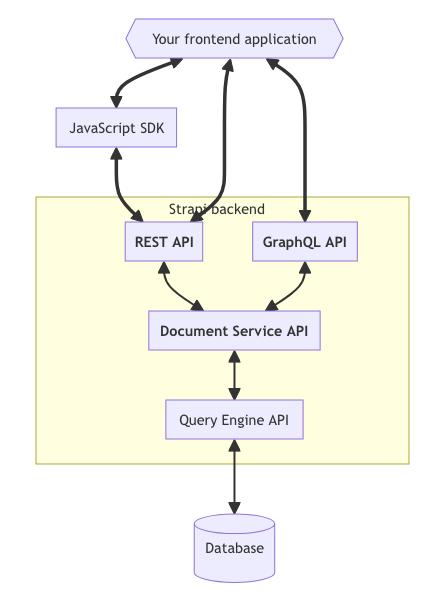
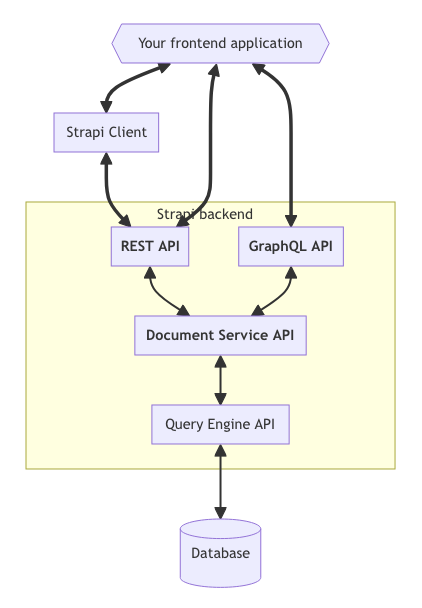
Rename SDK to Client in files and diagrams

diff --git a/docusaurus/sidebars.js b/docusaurus/sidebars.js
@@ -169,7 +169,7 @@ const sidebars = {
         },
         {
           type: 'doc',
-          id: 'dev-docs/api/sdk-js',
+          id: 'dev-docs/api/client',
         },
         {
           type: 'doc',

diff --git a/docusaurus/docs/dev-docs/api/client.md b/docusaurus/docs/dev-docs/api/client.md
@@ -1,16 +1,17 @@
 ---
-title: JavaScript SDK
+title: Strapi Client
+description: The Strapi Client library simplifies interactions with your Strapi back end, providing a way to fetch, create, update, and delete content.  
 displayed_sidebar: devDocsSidebar
 tags:
 - API
 - Content API
 - documentId
-- JavaScript SDK
+- Strapi Client
 ---
 
-# JavaScript SDK
+# Strapi Client
 
-The Strapi JavaScript SDK simplifies interactions with your Strapi back end, providing a way to fetch, create, update, and delete content. This guide walks you through setting up the JavaScript SDK, configuring authentication, and using its key features effectively.
+The Strapi Client library simplifies interactions with your Strapi back end, providing a way to fetch, create, update, and delete content. This guide walks you through setting up the Strapi Client, configuring authentication, and using its key features effectively.
 
 ## Getting Started
 :::prerequisites
@@ -20,27 +21,27 @@ The Strapi JavaScript SDK simplifies interactions with your Strapi back end, pro
 
 ### Installation
 
-To use the JavaScript SDK in your project, install it as a dependency using your preferred package manager:
+To use the Strapi Client in your project, install it as a dependency using your preferred package manager:
 
   <Tabs groupId="yarn-npm">
   <TabItem value="yarn" label="Yarn">
 
   ```bash
-  yarn add @strapi/sdk-js
+  yarn add @strapi/client
   ```
 
   </TabItem>
   <TabItem value="npm" label="NPM">
 
   ```bash
-  npm install @strapi/sdk-js
+  npm install @strapi/client
   ```
 
   </TabItem>
   <TabItem value="pnpm" label="pnpm">
 
   ```bash
-    pnpm add @strapi/sdk-js
+    pnpm add @strapi/client
   ```
 
   </TabItem>
@@ -48,32 +49,32 @@ To use the JavaScript SDK in your project, install it as a dependency using your
 
 ### Basic configuration
 
-To start interacting with your Strapi back end, initialize the JavaScript SDK and set the base API URL:
+To start interacting with your Strapi back end, initialize the Strapi Client and set the base API URL:
 
 ```js
-import { strapi } from '@strapi/sdk-js';
+import { strapi } from '@strapi/client';
 
-const sdk = strapi({ baseURL: 'http://localhost:1337/api' });
+const client = strapi({ baseURL: 'http://localhost:1337/api' });
 ```
 
-If you're using the JavaScript SDK in a browser environment, you can include it using a `<script>` tag:
+If you're using the Strapi Client in a browser environment, you can include it using a `<script>` tag:
 
 ```js title="./src/api/[apiName]/routes/[routerName].ts (e.g './src/api/restaurant/routes/restaurant.ts')"
-<script src="https://cdn.jsdelivr.net/npm/@strapi/sdk-js"></script>
+<script src="https://cdn.jsdelivr.net/npm/@strapi/client"></script>
 
 <script>
-  const sdk = strapi.strapi({ baseURL: 'http://localhost:1337/api' });
+  const client = strapi.strapi({ baseURL: 'http://localhost:1337/api' });
 </script>
 ```
 
 ### Authentication
 
-The JavaScript SDK supports different authentication strategies to access protected resources in your Strapi back end.
+The Strapi Client supports different authentication strategies to access protected resources in your Strapi back end.
 
-If your Strapi instance uses API tokens, configure the JavaScript SDK as follows:
+If your Strapi instance uses API tokens, configure the Strapi Client as follows:
 
 ```js
-const sdk = strapi({
+const client = strapi({
   baseURL: 'http://localhost:1337/api',
   auth: 'your-api-token-here',
 });
@@ -83,7 +84,7 @@ This allows your requests to include the necessary authentication credentials au
 
 ## API Reference
 
-The JavaScript SDK provides the following key properties and methods for interacting with your Strapi back end:
+The Strapi Client provides the following key properties and methods for interacting with your Strapi back end:
 
 | Parameter | Description                                                                                  |
 | ----------| -------------------------------------------------------------------------------------------- |
@@ -94,15 +95,15 @@ The JavaScript SDK provides the following key properties and methods for interac
 
 ### General purpose fetch
 
-The JavaScript SDK provides access to the underlying JavaScript `fetch` function to make direct API requests. The request is always relative to the base URL provided during SDK initialization:
+The Strapi Client provides access to the underlying JavaScript `fetch` function to make direct API requests. The request is always relative to the base URL provided during client initialization:
 
 ```js
-const result = await strapiSdk.fetch('articles', { method: 'GET' });
+const result = await client.fetch('articles', { method: 'GET' });
 ```
 
 ### Working with collection types
 
-Collection types in Strapi are entities with multiple entries (e.g., a blog with many posts). The JavaScript SDK provides a `collection()` method to interact with these resources, with the following methods available:
+Collection types in Strapi are entities with multiple entries (e.g., a blog with many posts). The Strapi Client provides a `collection()` method to interact with these resources, with the following methods available:
 
 | Parameter | Description                                                                                  |
 | ----------| -------------------------------------------------------------------------------------------- |
@@ -114,12 +115,15 @@ Collection types in Strapi are entities with multiple entries (e.g., a blog with
 
 **Usage examples:**
 ```js
-const articles = sdk.collection('articles');
+const articles = client.collection('articles');
 
-// Fetch all English articles sorted by title
-const allArticles = await articles.find({ locale: 'en', sort: 'title' });
+// Fetch all english articles sorted by title
+const allArticles = await articles.find({
+  locale: 'en',
+  sort: 'title',
+});
 
-// Fetch a single article by ID
+// Fetch a single article
 const singleArticle = await articles.findOne('article-document-id');
 
 // Create a new article
@@ -134,7 +138,7 @@ await articles.delete('article-id');
 
 ### Working with single types
 
-Single types in Strapi represent unique content entries that exist only once (e.g., the homepage settings or site-wide configurations). The JavaScript SDK provides a `single()` method to interact with these resources, with the following methods available:
+Single types in Strapi represent unique content entries that exist only once (e.g., the homepage settings or site-wide configurations). The Strapi Client provides a `single()` method to interact with these resources, with the following methods available:
 | Parameter | Description                                                                                  |
 | ----------| -------------------------------------------------------------------------------------------- |
 | `find(queryParams?)`  | Fetch the document.        |
@@ -143,7 +147,7 @@ Single types in Strapi represent unique content entries that exist only once (e.
 
 **Usage examples:**
 ```js
-const homepage = sdk.single('homepage');
+const homepage = client.single('homepage');
 
 // Fetch the default homepage content
 const defaultHomepage = await homepage.find();
@@ -162,5 +166,5 @@ await homepage.delete();
 ```
 
 :::strapi Additional information
-More details about the Strapi JavaScript SDK might be found in the [package's README](https://github.com/strapi/sdk-js/blob/main/README.md).
+More details about the Strapi Strapi Client might be found in the [package's README](https://github.com/strapi/client-js/blob/main/README.md).
 :::

diff --git a/docusaurus/docs/dev-docs/api/content-api.md b/docusaurus/docs/dev-docs/api/content-api.md
@@ -22,7 +22,7 @@ From a front-end application, your content can be accessed through Strapi's Cont
 - by default through the [REST API](/dev-docs/api/rest)
 - and also through the [GraphQL API](/dev-docs/api/graphql) if you installed the Strapi built-in [GraphQL plugin](/dev-docs/plugins/graphql).
 
-You can also use the [JavaScript SDK](/dev-docs/api/sdk-js) to interact with the REST API.
+You can also use the [Strapi Client](/dev-docs/api/client) to interact with the REST API.
 
 REST and GraphQL APIs represent the top-level layers of the Content API exposed to external applications. Strapi also provides 2 lower-level APIs:
 
@@ -47,7 +47,7 @@ This documentation section includes reference information about the following St
 
 <CustomDocCard emoji="↕" title="GraphQL API" description="Query the Content API  from a front-end application through GraphQL." link="/dev-docs/api/graphql" />
 
-<CustomDocCard emoji="↕" title="JavaScript SDK" description="Interact with the REST API through the JavaScript SDK." link="/dev-docs/api/sdk-js" />
+<CustomDocCard emoji="↕" title="Strapi Client" description="Interact with the REST API through the Strapi Client library." link="/dev-docs/api/client" />
 
 <CustomDocCard emoji="🔃" title="Document Service API" description="Query your data through the backend server or plugins." link="/dev-docs/api/document-service" />
 

diff --git a/docusaurus/docs/dev-docs/whats-new.md b/docusaurus/docs/dev-docs/whats-new.md
@@ -25,6 +25,8 @@ Strapi 5 brings many new features and improvements, and this page quickly highli
 
 <Icon name="puzzle-piece" /> The **[Plugin SDK](/dev-docs/plugins/development/plugin-sdk)** is a new CLI tool that helps you develop and publish Strapi plugins.
 
+<Icon name="plugs" /> The **[Strapi Client](/dev-docs/api/client)** library simplifies interactions with your Strapi back end, providing a way to fetch, create, update, and delete content.
+
 <Icon name="escalator-up" /> Another whole new CLI **[upgrade tool](/dev-docs/upgrade-tool)** will help you migrate to any patch, minor, and major version of Strapi, automating most of the common tasks through codemods.
 
 <Icon name="hard-hat" /> Also, we have some resources ready to help you **[upgrade to Strapi 5](/dev-docs/migration/v4-to-v5/introduction-and-faq)**, including a [step-by-step guide](/dev-docs/migration/v4-to-v5/step-by-step), a list of [breaking changes](/dev-docs/migration/v4-to-v5/breaking-changes) and [specific resources](/dev-docs/migration/v4-to-v5/additional-resources/introduction) to read for when you will consider upgrading to Strapi 5.

diff --git a/docusaurus/docs/dev-docs/api/rest.md b/docusaurus/docs/dev-docs/api/rest.md
@@ -30,8 +30,8 @@ By default, the REST API responses only include top-level fields and does not po
 The Upload plugin (which handles media found in the [Media Library](/user-docs/media-library)) has a specific API described in the [Upload plugin documentation](/dev-docs/plugins/upload).
 :::
 
-:::strapi Strapi SDK <NewBadge />
-Strapi has just released a new SDK, currently in beta. Early documentation is available on the [repository](https://github.com/strapi/sdk-js) while we are integrating it into the official REST API reference.
+:::strapi Strapi Client <NewBadge />
+The [Strapi Client](/dev-docs/api/client) library simplifies interactions with your Strapi back end, providing a way to fetch, create, update, and delete content. 
 :::
 
 ## Endpoints
